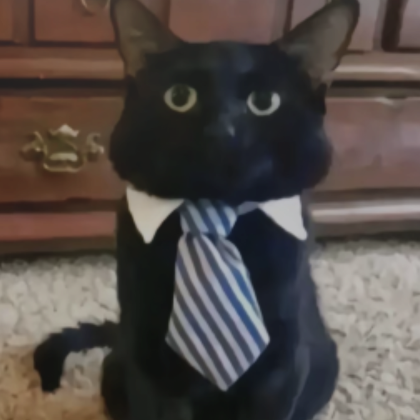
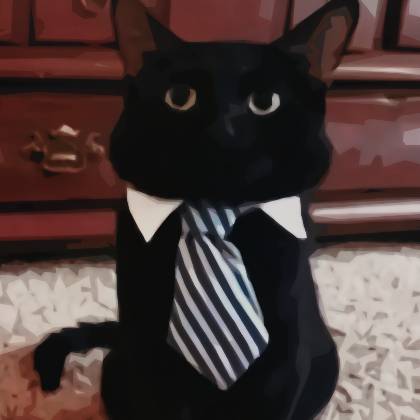
Staffs section changes

diff --git a/index.html b/index.html
@@ -34,25 +34,25 @@
         <main>
             <h1 id = "staffs" style = "text-align: center;">Our dedicated staffs</h1>
             <section id = "members" class = "thin">
-                <div id = "card">
+                <div id = "card" style = "background: url(Resources/Images/cat1.png);">
                     <div id = "info">
                         <h2>Cat 1</h2>
                         <p id = "about">He is very silly.</p>
                     </div>
                 </div>
-                <div id = "card">
+                <div id = "card" style = "background: url(Resources/Images/cat2.png);">
                     <div id = "info">
                         <h2>Cat 2</h2>
                         <p id = "about">He is very silly.</p>
                     </div>
                 </div>
-                <div id = "card">
+                <div id = "card" style = "background: url(Resources/Images/cat5.png);">
                     <div id = "info">
                         <h2>Cat 3</h2>
                         <p id = "about">He is very cutie.</p>
                     </div>
                 </div>
-                <div id = "card">
+                <div id = "card" style = "background: url(Resources/Images/ryan.png);">
                     <div id = "info">
                         <h2>Ryan</h2>
                         <p id = "about">He is literally me.</p>
@@ -65,8 +65,9 @@
                     <!-- <p style = "flex-grow: auto;">“In ancient times cats were worshipped as gods; they have not forgotten this.” <span class = "author">- Terry Pratchett</span></p> -->
                 </div>
             </section>
-            <section id = "ads" style="display: none;">
-                <img src = "Resources/Images/banner.jpg" alt = "this is definitely an ads.">
+            <section id = "ads"  class = "thin">
+                <p>Shoutout to Silly Cats, <br> Gotta Be One of My Favorite Genders FR!!!</p>
+                <button id = "sign-up" class = "anim">SHOUT OUT</button>
             </section>
         </main>
         <footer>

diff --git a/style.css b/style.css
@@ -136,11 +136,22 @@ button#sign-up {
 #members #card {
     flex: 1;
     border: 5px solid #1a1a1a;
-    box-shadow: 5px 5px #20867b;
-    background: #eaa327;
-    padding-top: 30%;
-    background: linear-gradient(to bottom, transparent, transparent), url(Resources/Images/cat5.png);
-    background-size: cover;
+    box-shadow: 5px 5px #1a1a1a;
+    background: rgb(239, 239, 239);
+    padding-top: 40%;
+    background: url(Resources/Images/cat5.png);
+    background-size:     cover !important;                      /* <------ */
+    background-repeat:   no-repeat !important;
+    background-position: center center !important;
+    filter: grayscale(1);   
+    box-shadow: 0 0 100px rgba(0,0,0,0.9) inset;
+    transition: 0.3s;
+}
+
+#members #card:hover {
+    flex-grow: 1.5;
+    box-shadow: none;
+    filter: none;
 }
 
 #members #card #info {
@@ -150,7 +161,7 @@ button#sign-up {
     font-weight: 700;
     font-style: italic;
     /* position: absolute; */
-    padding: 5px 25px;
+    padding: 5px 15px;
     margin: 10px;
     /* display: none; */
 }
@@ -175,6 +186,7 @@ main {
 #quote {
     display: flex;
     flex-direction: column;
+    margin-top: 100px;
 }
 
 #quote p {
@@ -196,7 +208,6 @@ main {
 }
 
 #quote .row1 {
-    margin-top: 20px;
     display: flex;
     gap: 20px;
 }
@@ -224,4 +235,19 @@ h1#staffs {
     color: #f9e4b9;
     text-shadow: 3px 3px #1a1a1a75;
     margin-bottom: 20px;
+}
+
+section#ads {
+    background: linear-gradient(45deg, #953e3e, #00000073);
+    padding: 44px;
+    display: flex;
+    justify-content: space-between;
+    margin-top: 90px;
+    color: gainsboro;
+}
+
+#ads p {
+    font-size: 25px;
+    margin: 0;
+    font-family: 'Passion One', sans-serif;
 }
